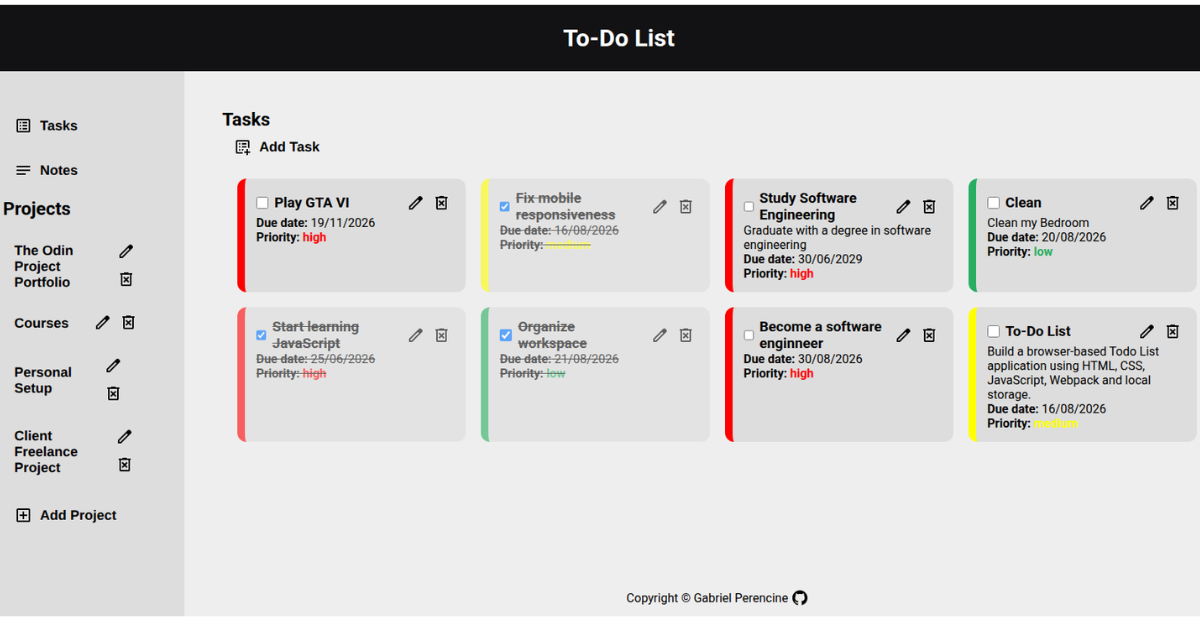
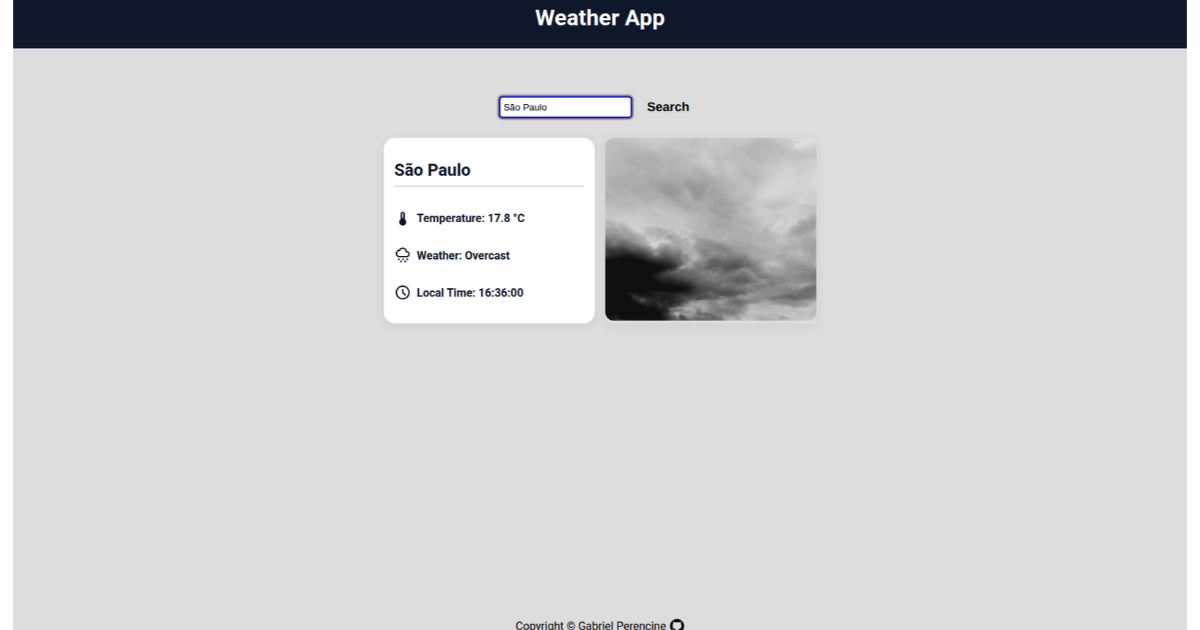
Add page preview

diff --git a/README.md b/README.md
@@ -4,7 +4,7 @@ This project is part of the JavaScript course from **The Odin Project**. In this
 
 ## Preview
 
-![Weather App Preview](./images/preview.png)
+![Weather App Preview](./src/images/preview.png)
 
 By completing this project, I demonstrated an understanding of asynchronous JavaScript, API integration, Promises, async/await, JSON data processing, DOM manipulation, event handling, dynamic content rendering, and modular code organization. I also gained experience working with external APIs and handling asynchronous data in an interactive web application.
 
